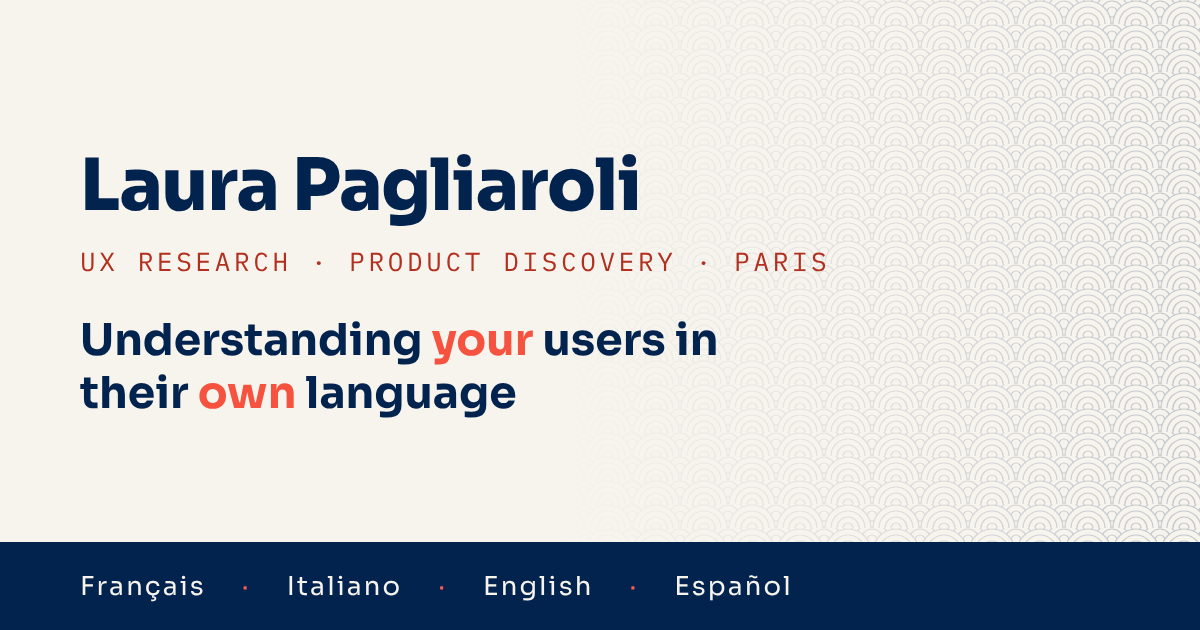
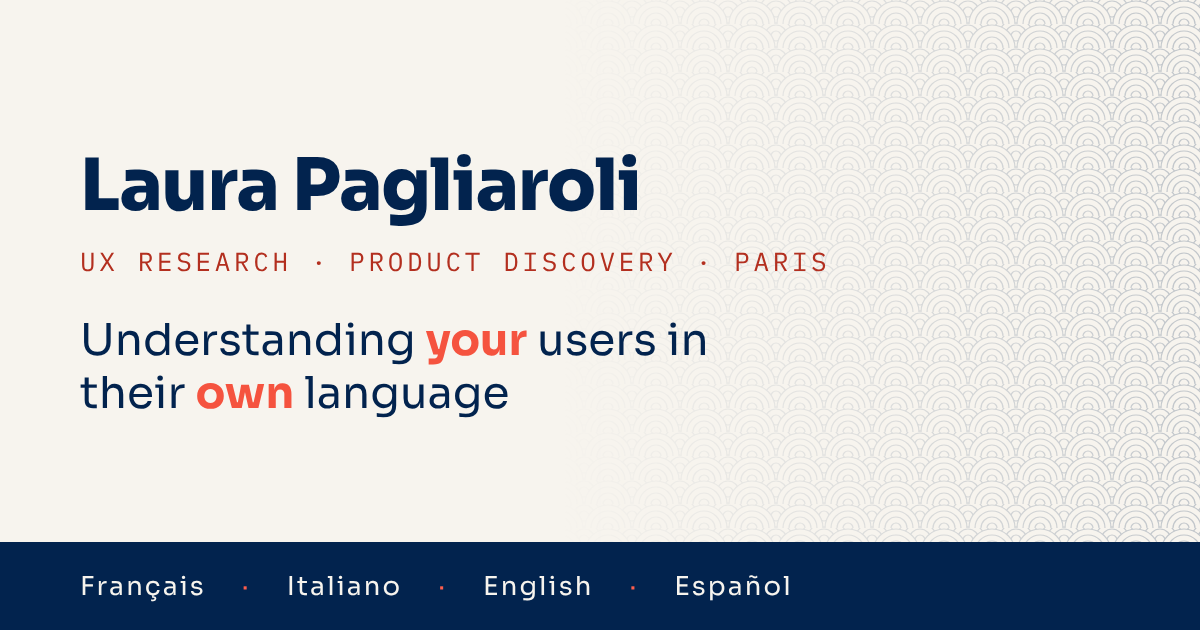
Hero title in medium weight, coral words stay bold
Claude-Session: https://claude.ai/code/session_01GQLmp3NLadp1sXB4TJmbB2

Changed region(s): [[0.0617, 0.5127, 0.6167, 0.6635]]

diff --git a/assets/styles.css b/assets/styles.css
@@ -227,8 +227,8 @@ h3 { font-family: var(--font-body); font-size: var(--fs-h3); font-weight: 600; l
    ========================================================================== */
 .hero { position: relative; overflow: hidden; }
 .hero__inner { position: relative; display: grid; gap: 1.75rem; padding-block: clamp(3rem, 8vw, 6rem) clamp(2.5rem, 6vw, 4.5rem); }
-.hero h1 { max-width: 22ch; }
-.accent { color: var(--coral-display); } /* highlighted words, as in the LinkedIn banner */
+.hero h1 { max-width: 22ch; font-weight: 500; }
+.accent { color: var(--coral-display); font-weight: 700; } /* highlighted words, as in the LinkedIn banner */
 .hero__lead { font-size: var(--fs-lead); font-weight: 500; color: var(--ink); max-width: 58ch; }
 .hero__name { font-weight: 700; color: var(--navy); }
 .availability {
